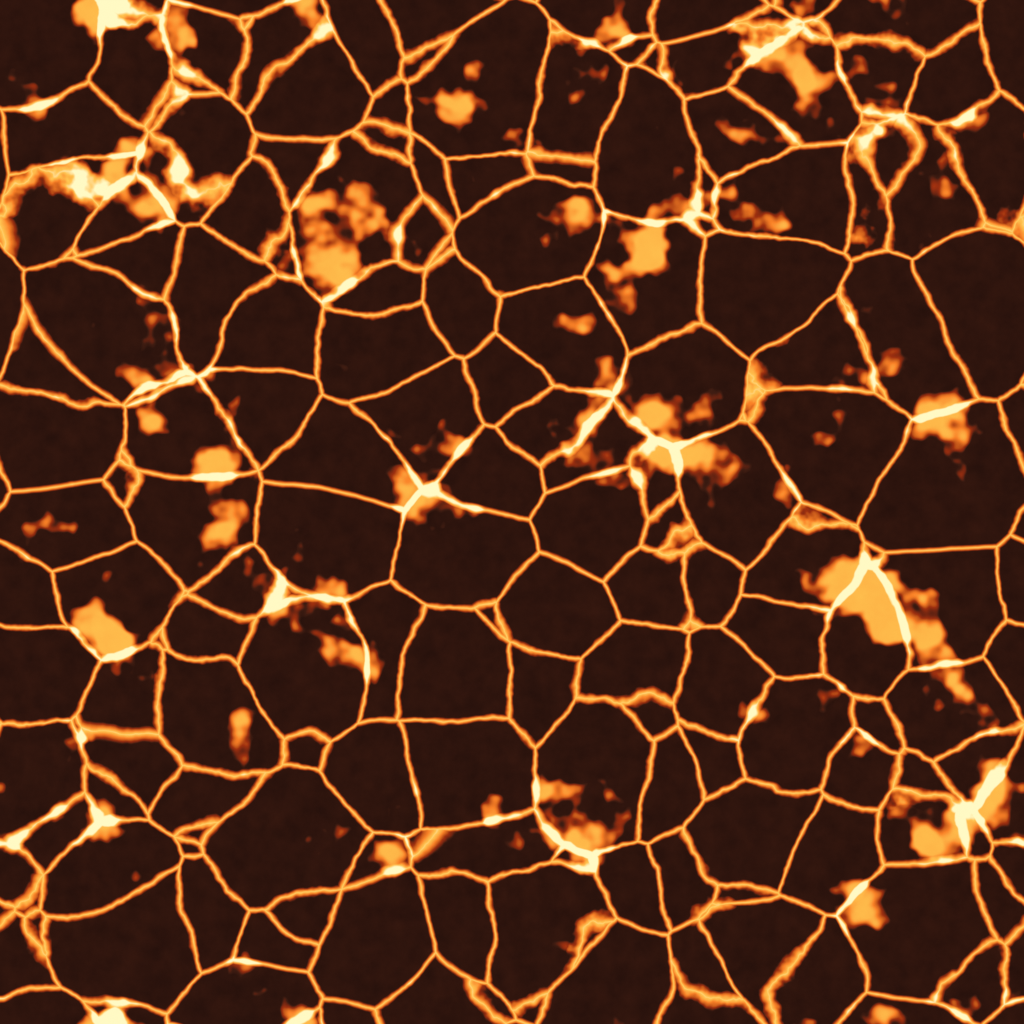
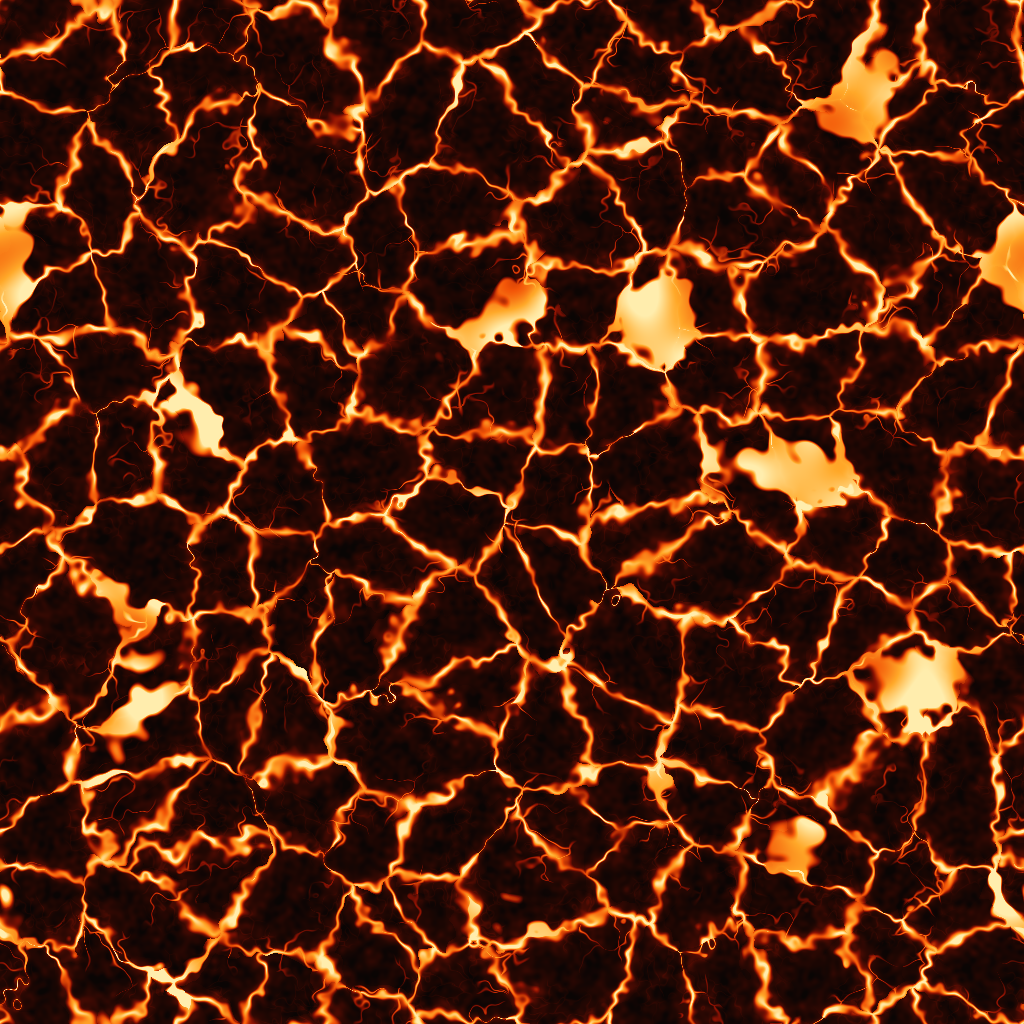
Ve lai anh dung nham: gan lom chom, do rong doi, nhanh nut phu, mau theo do nong; bo lop gan thu hai (nguoi dung chon 1+2+4)
- CongCu/Blender/dung_nham_gan.py (Blender MCP numpy): canh Voronoi tren toa do be meo 3 tang, vung nong chay, bang mau do nong; HuongGan tinh lai
- S_DungNham: lop thu hai = mip 5 mo (quang do duoi vo), khong con luoi dan cheo
- Menu 111 tat vo troi khi do (vo moi nhieu chi tiet): 0 loi, x18 doi chung, xuoi dong 69-86%

diff --git a/CongCu/Blender/dung_nham_gan.py b/CongCu/Blender/dung_nham_gan.py
@@ -1,0 +1,100 @@
+# ANH DUNG NHAM DUOI VUC + ANH HUONG GAN (05/10/2026). Chay TRONG Blender qua MCP (numpy cua Blender), dang bpy.app.timers vi tinh
+# khoang cach Voronoi mat ~3,5 phut (lenh MCP truc tiep het gio):
+#   exec(open(r"<du an>\CongCu\Blender\dung_nham_gan.py", encoding="utf-8").read())
+# Ra: Assets/Resources/DiaNguc/DungNham.png (1024, mau theo do nong) + HuongGan.png (512: RG huong tiep tuyen gan goc kep, B nhieu).
+# Moi thu LAP LIEN MACH: diem Voronoi cuon vong (anh nho nhat), nhieu dai tan bang FFT (tu tuan hoan).
+# Nguoi dung: "cac duong dung nham con thang va tron qua" -> chon (1) gan lom chom / do rong doi / nhanh phu / vung nong chay,
+# (2) mau theo do nong, (4) bo lop gan thu hai (shader).
+import bpy, numpy as np, time, os
+
+DU_AN = r"C:\Users\HP\Documents\GameUnity\Diablo25D"
+RA = os.path.join(DU_AN, r"Assets\Resources\DiaNguc")
+R = 1024
+
+fy = np.fft.fftfreq(R)[:, None] * R; fx = np.fft.fftfreq(R)[None, :] * R
+fr = np.sqrt(fx ** 2 + fy ** 2)
+
+def nhieu(f, bw, seed, n=R):
+    ffy = np.fft.fftfreq(n)[:, None] * n; ffx = np.fft.fftfreq(n)[None, :] * n; ff = np.sqrt(ffx ** 2 + ffy ** 2)
+    g = np.random.default_rng(seed).standard_normal((n, n))
+    z = np.real(np.fft.ifft2(np.fft.fft2(g) * np.exp(-((ff - f) / bw) ** 2)))
+    return ((z - z.mean()) / z.std()).astype(np.float32)
+
+def ss(a, b, x):
+    t = np.clip((x - a) / (b - a), 0, 1); return t * t * (3 - 2 * t)
+
+sig = lambda x: 1 / (1 + np.exp(-x))
+
+def hat_luoi(n, jit, seed):
+    r = np.random.default_rng(seed)
+    return ((np.mgrid[0:n, 0:n].reshape(2, -1).T + 0.5 + (r.random((n * n, 2)) - 0.5) * jit) / n).astype(np.float32)
+
+def canh(P, X, Y):
+    """Khoang cach CHINH XAC toi canh Voronoi gan nhat (hai diem gan nhat, cuon vong)."""
+    out = np.empty((R, R), np.float32)
+    for a in range(0, R, 64):
+        px = X[a:a + 64, :, None]; py = Y[a:a + 64, :, None]
+        dx = (px - P[None, None, :, 1] + 0.5) % 1.0 - 0.5; dy = (py - P[None, None, :, 0] + 0.5) % 1.0 - 0.5
+        d2 = dx * dx + dy * dy
+        idx = np.argpartition(d2, 2, axis=2)[:, :, :2]
+        o = np.argsort(np.take_along_axis(d2, idx, 2), axis=2); idx = np.take_along_axis(idx, o, 2)
+        r1x = np.take_along_axis(dx, idx[:, :, :1], 2)[..., 0]; r1y = np.take_along_axis(dy, idx[:, :, :1], 2)[..., 0]
+        r2x = np.take_along_axis(dx, idx[:, :, 1:2], 2)[..., 0]; r2y = np.take_along_axis(dy, idx[:, :, 1:2], 2)[..., 0]
+        out[a:a + 64] = ((r2x ** 2 + r2y ** 2) - (r1x ** 2 + r1y ** 2)) / (2 * np.sqrt((r2x - r1x) ** 2 + (r2y - r1y) ** 2) + 1e-9)
+    return out
+
+def luu(arr, path):
+    n = arr.shape[0]
+    im = bpy.data.images.new("DN_Tam", n, n, alpha=True, float_buffer=False); im.colorspace_settings.name = 'Non-Color'
+    im.pixels[:] = arr.ravel(); im.filepath_raw = path; im.file_format = 'PNG'; im.save(); bpy.data.images.remove(im)
+
+def viec():
+    t0 = time.time()
+    yy, xx = np.mgrid[0:R, 0:R].astype(np.float32) / R
+    # BE MEO nhieu tang: uon lon (van giu hinh tang vo) + rang cua vua + rang cua nho. Ban dau 0,022 / 0,006: mat hinh mang vo, gan xoan nhu giun.
+    X = xx + 0.011 * nhieu(3.5, 1.5, 1) + 0.0035 * nhieu(18, 6, 2) + 0.0016 * nhieu(60, 20, 3)
+    Y = yy + 0.011 * nhieu(3.5, 1.5, 4) + 0.0035 * nhieu(18, 6, 5) + 0.0016 * nhieu(60, 20, 6)
+    dChinh = canh(hat_luoi(12, 0.85, 11), X, Y)                                                   # khe chinh (~3,8 m moi tang)
+    dNhanh = canh(hat_luoi(26, 0.9, 12), X + 0.0025 * nhieu(30, 10, 7), Y + 0.0025 * nhieu(30, 10, 8))   # nhanh nut phu
+    dVun = canh(hat_luoi(55, 0.9, 13), X + 0.0015 * nhieu(80, 25, 9), Y + 0.0015 * nhieu(80, 25, 10))    # vet vun tren vo
+
+    # DO RONG GAN doi doc duong: phinh / that / doan nguoi (toi, hep)
+    nW = 0.6 * nhieu(7, 3, 21) + 0.4 * nhieu(16, 6, 22)
+    w = 0.0036 * (0.25 + 1.6 * sig(1.6 * nW)); w = w * np.where(nW < -1.1, 0.35, 1.0)
+    loi = np.exp(-(dChinh / w) ** 2) * (0.8 + 0.2 * nhieu(25, 10, 23))
+    quang = 0.17 * np.exp(-dChinh / (1.5 * w + 0.002))                                    # do loang vao mep vo
+    mNhanh = ss(0.2, 1.0, nhieu(9, 4, 24)) * np.exp(-dChinh / 0.02)                        # nhanh chi o vai cho, gan khe chinh
+    wN = 0.0013 * (0.4 + 1.2 * sig(1.5 * nhieu(20, 8, 25)))
+    nhanh = 0.7 * np.exp(-(dNhanh / wN) ** 2) * mNhanh + 0.08 * np.exp(-dNhanh / (3 * wN + 0.002)) * mNhanh
+    nV = 0.85 * nhieu(5, 2, 26) + 0.15 * nhieu(30, 12, 27) + 1.0 * np.exp(-dChinh / 0.005) - 0.3
+    vung = ss(1.15, 1.5, nV) * (0.86 + 0.14 * nhieu(10, 4, 28))                           # vung nong chay (mat min: tan so cao ra lom dom cham)
+    vo = 0.045 + 0.02 * nhieu(35, 14, 29) + 0.012 * nhieu(90, 30, 30) + 0.03 * np.exp(-dChinh / 0.008)
+    vo += 0.045 * np.exp(-(dVun / 0.0011) ** 2) * ss(0.0, 0.8, nhieu(12, 5, 31))
+    H = np.maximum.reduce([vo, loi, nhanh, vung]); H = np.clip(H + quang * (1 - H), 0, 1)
+
+    # BANG MAU THEO DO NONG: vo nau den -> do sam -> cam -> vang -> trang vang
+    moc = np.array([0.0, 0.10, 0.30, 0.55, 0.80, 1.0])
+    mau = np.array([[0.035, 0.018, 0.015], [0.16, 0.030, 0.012], [0.55, 0.07, 0.010], [0.95, 0.33, 0.03], [1.0, 0.66, 0.16], [1.0, 0.93, 0.68]])
+    C = np.stack([np.interp(H, moc, mau[:, k]) for k in range(3)], -1).astype(np.float32)
+    luu(np.concatenate([C, np.ones((R, R, 1), np.float32)], -1), os.path.join(RA, "DungNham.png"))
+
+    # ANH HUONG GAN: tensor cau truc cua do sang -> huong TIEP TUYEN dang goc kep x do ket hop (RG), nhieu dai tan (B)
+    L = C[..., 0] * 0.3 + C[..., 1] * 0.5 + C[..., 2] * 0.2
+    def mo(a, s):
+        return np.real(np.fft.ifft2(np.fft.fft2(a) * np.exp(-2 * (np.pi ** 2) * (s ** 2) * ((fx / R) ** 2 + (fy / R) ** 2))))
+    Lm = mo(L, 1.5)
+    gx = (np.roll(Lm, -1, 1) - np.roll(Lm, 1, 1)) * 0.5; gy = (np.roll(Lm, -1, 0) - np.roll(Lm, 1, 0)) * 0.5
+    Jxx = mo(gx * gx, 6); Jyy = mo(gy * gy, 6); Jxy = mo(gx * gy, 6)
+    d = Jxx - Jyy; r = np.sqrt(d * d + 4 * Jxy * Jxy); coh = r / (Jxx + Jyy + 1e-9)
+    vx = (-d / (r + 1e-12)) * coh; vy = (-2 * Jxy / (r + 1e-12)) * coh
+    nho = lambda a: a.reshape(R // 2, 2, R // 2, 2).mean(axis=(1, 3))
+    n = np.random.default_rng(111).standard_normal((R // 2, R // 2))
+    f2y = np.fft.fftfreq(R // 2)[:, None] * (R // 2); f2x = np.fft.fftfreq(R // 2)[None, :] * (R // 2); f2 = np.sqrt(f2x ** 2 + f2y ** 2)
+    nz = np.real(np.fft.ifft2(np.fft.fft2(n) * np.exp(-((f2 - 19) / 7.0) ** 2))); nz = np.clip(0.5 + (nz - nz.mean()) / nz.std() * 0.22, 0, 1)
+    out = np.zeros((R // 2, R // 2, 4), np.float32)
+    out[..., 0] = nho(vx) * 0.5 + 0.5; out[..., 1] = nho(vy) * 0.5 + 0.5; out[..., 2] = nz; out[..., 3] = 1
+    luu(out, os.path.join(RA, "HuongGan.png"))
+    print("[dung_nham_gan] xong", round(time.time() - t0, 1), "s")
+    return None
+
+bpy.app.timers.register(viec, first_interval=0.2)

diff --git a/Assets/Editor/ThuDungNhamChay.cs b/Assets/Editor/ThuDungNhamChay.cs
@@ -95,6 +95,9 @@ public static class ThuDungNhamChay
         var ps = EditorSceneManager.NewPreviewScene();
         var mat = new Material(matGoc);
         mat.SetFloat("_TocChay", toc); mat.SetFloat("_DoChay", doChay); mat.SetFloat("_SuongMu", 0f);
+        // TAT vo troi cham (0,13 m/s) ca hai ban: anh ve lai co vo nhieu chi tiet -> tuong quan bam vao vo troi, do ra 0,18-0,2 m/s
+        // (dung bang toc vo) thay vi dot sang chay theo gan. Phep do nay chi do phan CHAY THEO GAN.
+        mat.SetVector("_TroiA", Vector4.zero); mat.SetVector("_TroiB", Vector4.zero);
         var rt = new RenderTexture(N, N, 24, RenderTextureFormat.ARGB32);
         var tx = new Texture2D(N, N, TextureFormat.RGB24, false);
         var khung = new float[SoKhung][];

diff --git a/HUONG-DAN.md b/HUONG-DAN.md
@@ -9368,6 +9368,29 @@ không có gì chảy (đối chứng 61–80%, ngẫu nhiên 41%): chỉ là ki
 **Người dùng chọn 0,8 m/s** (chảy chậm, đặc quánh) — `_TocChay` 0,8 trong `DungNham.mat` và mặc định của shader.
 Shader nay ~9 lần đọc ảnh mỗi điểm (trước 4) — chưa đo trên điện thoại.
 
+#### Vẽ lại ảnh dung nham: gân lởm chởm, màu theo độ nóng, bỏ lớp gân thứ hai (05/10/2026)
+
+**Người dùng:** "Các đường dung nham vẫn còn thẳng và trơn quá, gợi ý làm sao giống thật hơn". Tôi gợi ý 5 hướng, người dùng chọn **1 + 2 + 4**:
+(1) vẽ lại ảnh — gân ngoằn ngoèo răng cưa, độ rộng đổi theo chỗ, nhánh nứt phụ, mép vỡ; (2) màu theo độ nóng; (4) bỏ lớp gân thứ hai đan chéo.
+
+Nguyên nhân thẳng / trơn: ảnh cũ là cạnh Voronoi (đoạn thẳng), rộng đều, viền sáng cắt sắc, và shader chồng **hai lớp** gân lệch tỉ lệ 0,73 → lưới
+đan chéo.
+
+- **Ảnh mới** `DungNham.png` (Blender MCP, numpy, script `CongCu/Blender/dung_nham_gan.py` — chạy bằng `bpy.app.timers`, tính khoảng cách Voronoi mất
+  ~3,5 phút, lệnh MCP thẳng hết giờ): khoảng cách CHÍNH XÁC tới cạnh Voronoi (12 × 12 điểm lưới rung, cuộn vòng) trên toạ độ **bẻ méo 3 tầng**
+  (uốn lớn 0,011 · răng cưa 0,0035 · răng cưa nhỏ 0,0016); độ rộng gân theo nhiễu (×0,25–1,85, đoạn "nguội" ×0,35); nhánh nứt phụ (Voronoi 26 × 26,
+  chỉ gần khe chính + theo nhiễu); vết vụn mờ trên vỏ (55 × 55); vũng nóng chảy ở nút giao / ven khe; vỏ loang, mép vỏ ấm hơn. Độ nóng → **bảng màu**
+  nâu đen → đỏ sẫm → cam → vàng → trắng vàng, quầng đỏ loang 1,5 × độ rộng gân vào mép vỏ. Ảnh hướng gân `HuongGan.png` tính lại từ ảnh mới (nhiễu B
+  giữ nguyên seed).
+  ⚠ Bản thử đầu bẻ méo gấp đôi (0,022 / 0,006): mất hình tảng vỏ, gân xoắn như giun, quầng phủ 26% ảnh; vũng có nhiễu tần số cao → lốm đốm chấm tròn.
+- **Shader** (mục 4): lớp thứ hai không còn là gân — đọc **mip 5** (~1,4 m) của chính ảnh, cộng ×0,18 làm quầng đỏ âm dưới vỏ (`tex2Dlod`, `#pragma target 3.0`).
+  Shader bớt 4 lần đọc ảnh mỗi điểm (lớp gân thứ hai đã bỏ).
+
+**Đo — menu 111** (0 lỗi). ⚠ Vỏ mới nhiều chi tiết nên tương quan bám vào **vỏ trôi chậm 0,13 m/s** (đo ra 0,18–0,2 m/s, 11 lỗi) — phép đo nay TẮT
+`_TroiA/_TroiB` ở cả hai bản, chỉ đo phần chảy theo gân. Chuyển động 0,23–0,25 (đối chứng 0,013–0,014, ×18); xuôi dòng 69–86%; tốc trung vị 0,55–0,62 /
+1,08–1,14 / 1,78–2,02 m/s ở 0,8 / 1,5 / 2,5. Ảnh trong game ở cùng góc (`PlayTestShots/dungnham_gan_truoc_sau.png`, trên cũ / dưới mới; ảnh động
+`dungnham_gan_moi_0.8.gif`): độ sáng TB giữ (đỏ 51 → 51 / 46 → 44, điểm sáng > 150: 0,2 → 0,3% / 0,6 → 0,6%), ngả đỏ hơn.
+
 ### Bị cháy: lửa mỏng bớt — mật độ 0,4 (05/10/2026)
 
 **Người dùng:** "Hiệu ứng thiêu đốt trên các nhân vật người chơi và trên quái vật: cho giảm bớt mật độ lửa phủ trên người, hiện đang nhiều quá

diff --git a/CLAUDE.md b/CLAUDE.md
@@ -171,7 +171,11 @@ Bảng đầy đủ nằm ở mục "Phần 4" trong `HUONG-DAN.md`.
   mẫu méo ở tốc cao); đồng hồ toàn cục `_DN_ThoiGian` (`DiaNguc.Update`; phép thử giữ bằng `GiuDongHoDungNham`). Menu 111 (0 lỗi, hướng gân + chuyển động
   tính lại từ ẢNH CHỤP, đối chứng `_DoChay` 0): chuyển động ×6–7 hình cũ, xuôi dòng 64–90% (cũ 26–43%), tốc trung vị 0,42–0,72 / 1,0–1,48 / 2,2–3,0
   ở 0,8 / 1,5 / 2,5 m/s. ⚠ "Dọc gân" bị hiệu ứng khẩu độ (đối chứng cũng 61–80%) — không dùng để phân biệt. Ảnh động menu 111b
-  `PlayTestShots/dungnham_chay_*.gif`. Shader ~9 lần đọc ảnh (trước 4), chưa đo trên điện thoại.
+  `PlayTestShots/dungnham_chay_*.gif`.
+  ⚠ **Cùng tối: ẢNH DUNG NHAM VẼ LẠI** (người dùng: "đường dung nham còn thẳng và trơn quá"; chọn gân lởm chởm + màu theo độ nóng + bỏ lớp gân thứ
+  hai): `CongCu/Blender/dung_nham_gan.py` (Blender MCP numpy, chạy bằng timers ~3,5 phút) — cạnh Voronoi trên toạ độ bẻ méo 3 tầng, độ rộng đổi theo
+  chỗ, nhánh nứt phụ, vũng nóng chảy, bảng màu theo độ nóng; `HuongGan.png` tính lại. Shader: lớp thứ hai = mip 5 mờ ×0,18 (quầng đỏ dưới vỏ), ~5 lần
+  đọc ảnh mỗi điểm. Menu 111 TẮT vỏ trôi khi đo (vỏ mới nhiều chi tiết — tương quan bám vào vỏ trôi 0,13 m/s): 0 lỗi, ×18 đối chứng, xuôi dòng 69–86%.
 - **LUẬT ĐỢT QUÁI** (luật duy nhất của `GameDirector` từ khi xoá Act1): mỗi đợt sinh quanh **từng**
   người chơi bốn con (bộ xương · phù thủy · quỷ cây · quỷ dữ), giết hết → 30 giây → đợt sau cộng dồn thêm quái bất kì
   (+1, +3, +6…) và mạnh thêm 5% máu · sát thương mỗi đợt. ⚠ **Sát thương quái Act2 = 0,65 × 1,05^(đợt−1)** (27/09/2026 người dùng: đợt đầu −35%, máu giữ
